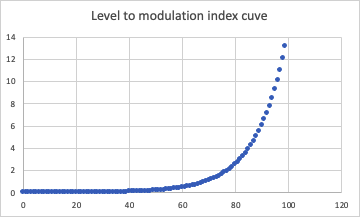
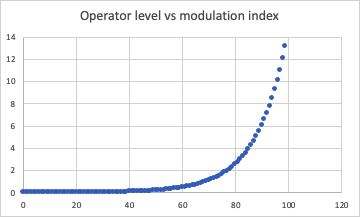
Added correct calculation

Changed region(s): [[0.2139, 0.0276, 0.7944, 0.1106]]

diff --git a/dx2xfm/README.md b/dx2xfm/README.md
@@ -207,33 +207,43 @@ The correct conversion is as follows:
 - Unsure whether the conversion should be linear or some other function. Assumption is linear, so LEVEL * 255/99
 - Maybe this info is needed? https://sound.stackexchange.com/questions/31709/what-is-the-level-of-frequency-modulation-of-many-synthesizers
 
-DX7 Levels with respect to modulation index (from [Music: a mathematical offering, Apendix B](https://homepages.abdn.ac.uk/d.j.benson/pages/html/music.pdf), David Benson:
+DX7 Levels with respect to modulation index (from [Music: a mathematical offering, Apendix B](https://homepages.abdn.ac.uk/d.j.benson/pages/html/music.pdf), David Benson. The calculation in [Synthesis: FM pt2](https://sites.google.com/site/yalaorg/audio-music-synthesis/fmsynth/fmsynthdx) are the same, but have a higher accuracy, and this page describes the actual formula that is used:
 
-| DX7 | Index | Approximation | Original |
-|-----|-------|---------------|----------|
-|  0 | 0.0002 | 0.002 | 0? |
-| 10 | 0.0032 | 0.005 | 0.003 |
-| 20 | 0.0140 | 0.013 | 0.013 |
-| 30 | 0.0332 | 0.031 | 0.031 |
-| 40 | 0.0791 | 0.075 | 0.079 |
-| 50 | 0.1880 | 0.181 | 0.188 |
-| 60 | 0.4472 | 0.434 | 0.446 |
-| 65 | 0.6897 | 0.673 | 0.690 |
-| 70 | 1.0636 | 1.042 | 1.068 |
-| 75 | 1.6403 | 1.615 | 1.639 |
-| 80 | 2.5298 | 2.502 | 2.512 |
-| 85 | 3.9014 | 3.876 | 3.894 |
-| 90 | 6.0168 | 6.004 | 6.029 |
-| 95 | 9.2792 | 9.302 | 9.263 |
-| 99 | 13.123 | 13.202 | 13.119 |
+Let:
+- DX7: the parameter value (range 0-99)
+- TL, the TL-number (?), TL = 99-DX7 for DX7>=20, and for lower values we have to use a look-up table (the output is non-lineair)
+- I: the modulation index, I = PI * 2^((33/16) - (TL/8))
 
-([this excel](../doc/fmsynthesis/DX7ModulationIndex.xlsx) sheet has all the individual numbers).
+Look-up table for TL:
+DX7 | 0 | 1 | 2 | 3 | 4 | 5 | 6 | 7 | 8 | 9 | 10 | 11 | 12 | 13 | 14 | 15 | 16 | 17 | 18 | 19 |
+----|---|---|---|---|---|---|---|---|---|---|----|----|----|----|----|----|----|----|----|----|
+TL  |127|122|118|114|110|107|104|102|100| 98| 96 | 94 | 92 | 90 | 88 | 86 | 85 | 84 | 82 | 81 |
+
+| DX7 | Index | Original | Difference |
+|-----|-------|----------|------------|
+|  0 | 0.0002 | 0? | |
+| 10 | 0.0032 | 0.003 | 6,79% |
+| 20 | 0.0140 | 0.013 | 7,50% |
+| 30 | 0.0332 | 0.031 | 7,22% |
+| 40 | 0.0791 | 0.079 | 0,07% |
+| 50 | 0.1880 | 0.188 | 0,01% |
+| 60 | 0.4472 | 0.446 | 0,27% |
+| 65 | 0.6897 | 0.690 | 0,05% |
+| 70 | 1.0636 | 1.068 | 0,41% |
+| 75 | 1.6403 | 1.639 | 0,08% |
+| 80 | 2.5298 | 2.512 | 0,71% |
+| 85 | 3.9014 | 3.894 | 0,19% |
+| 90 | 6.0168 | 6.029 | 0,20% |
+| 95 | 9.2792 | 9.263 | 0,17% |
+| 99 | 13.123 | 13.119 | 0,03% |
+
+([this excel](../doc/fmsynthesis/DX7ModulationIndex.xlsx) sheet has all the individual numbers and the actual calculation).
 
 ![](../doc/fmsynthesis/DX7ModulationIndex.png)
 
-If we make the assuption that this table would correspond to an exponential function f(x) = ab^(cx), a good approximation can be made using a = 1/440, b = 2.4 and c = 1/10, displayed in the third column.
+The numbers differ a bit from the numbers in  *FM Theory & Applications, John Chowning*, the fourth column named "Original". Especially the calculated index for 0 seems a bit odd, probably the result of using an exponential function with y asymptote = 0. The DX7 would not use a function to calculate these indices, but a lookup table, so param value 0 would probably be set to modulation index 0. But as you can see from the graph below, the differences are very small. From param value 40, the difference is always less than 1%
 
-The numbers differ a bit from the numbers in  *FM Theory & Applications, John Chowning*, the fourth column named "Original". Especially the calculated index for 0 seems a bit odd, probably the result of using an exponential function with y asymptote = 0. The DX7 would not use a function to calculate these indices, but a lookup table, so param value 0 would probably be set to modulation index 0.
+![](../doc/fmsynthesis/ChowningCalculated.png)
 
 ### Key velocity sensitivity
 
